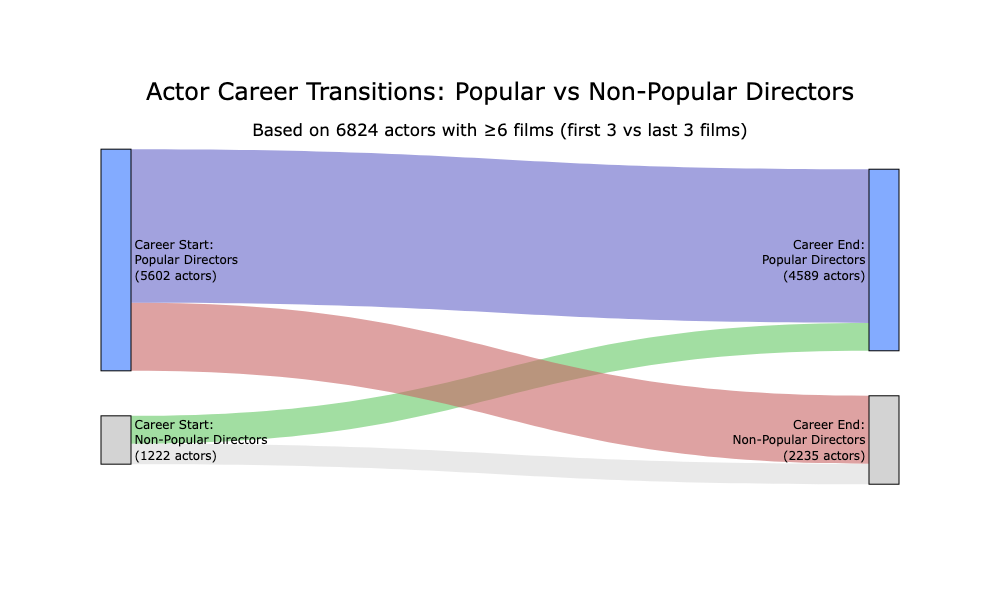
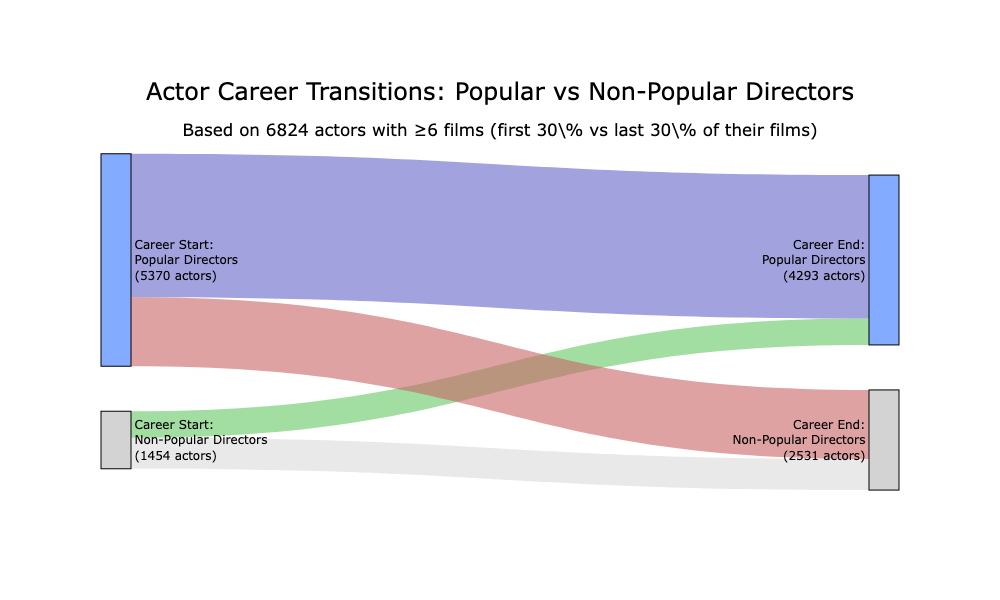
feat: update sankey, and readme

diff --git a/Director_Director_Graph/director_graph_functions.py b/Director_Director_Graph/director_graph_functions.py
@@ -784,12 +784,14 @@ def get_actors_to_popular_directors(actor_directors_dict, popular_directors):
 
 
 
-def get_career_classification(directors_list, popular_directors, n_films=3):
+def get_career_classification(directors_list, popular_directors, pct=0.30):
     if len(directors_list) == 0:
         return None, None
 
-    first_films = directors_list[:min(n_films, len(directors_list))]
-    last_films = directors_list[-min(n_films, len(directors_list)):]
+    n_films = max(1, int(len(directors_list) * pct))
+
+    first_films = directors_list[:n_films]
+    last_films = directors_list[-n_films:]
 
     # Count popular directors in first and last films
     first_popular = sum(1 for d in first_films if d['director'] in popular_directors)
@@ -805,7 +807,7 @@ def get_career_classification(directors_list, popular_directors, n_films=3):
 def calculate_actor_transitions(actor_directors_dict, popular_directors, transitions, actor_min_films):
     for actor, directors_list in actor_directors_dict.items():
         if len(directors_list) >= actor_min_films:
-            start_class, end_class = get_career_classification(directors_list, popular_directors, n_films=3)
+            start_class, end_class = get_career_classification(directors_list, popular_directors, pct=0.3)
 
             if start_class and end_class:
                 transitions[(start_class, end_class)] += 1
@@ -888,7 +890,7 @@ def visualize_actor_transitions(transitions, total_actors, actor_min_films):
     fig.update_layout(
         title={
             'text': f"Actor Career Transitions: Popular vs Non-Popular Directors<br>" +
-                    f"<sub>Based on {total_actors} actors with ≥{actor_min_films} films (first 3 vs last 3 films)</sub>",
+                    f"<sub>Based on {total_actors} actors with ≥{actor_min_films} films (first 30\% vs last 30\% of their films)</sub>",
             'x': 0.5,
             'xanchor': 'center',
             'font': {'size': 18, 'color': 'black'}
@@ -906,7 +908,7 @@ def visualize_actor_transitions(transitions, total_actors, actor_min_films):
     fig.update_layout(
         title={
             'text': f"Actor Career Transitions: Popular vs Non-Popular Directors<br>" +
-                    f"<sub>Based on {total_actors} actors with ≥{actor_min_films} films (first 3 vs last 3 films)</sub>",
+                    f"<sub>Based on {total_actors} actors with ≥{actor_min_films} films (first 30\% vs last 30\% of their films)</sub>",
             'x': 0.5,
             'xanchor': 'center',
             'font': {'size': 24, 'color': 'black'}

diff --git a/README.md b/README.md
@@ -35,4 +35,12 @@ This work is in the Director_Director_Graph folder. The Director_Director_Graph.
 - **Memory-Based Career Model**: Actors' past collaborations strongly predict future opportunities:
   - High-popularity actors are significantly more likely to continue working with high-popularity directors, but low popularity actors can work with high popularity directors too, we could not identify a lock-in-effect
 
+### Conclusion:
+- In the artist–director graph, we identified 30 communities, but we found no correlation between the community structure and any observable features such as genre, time range, production company, or the sentiment of the movies. This may be due to unobserved factors, such as the packaging phenomena from talent agencies, for which no data were available.
+
+- We also found no correlation between actors’ popularity and the sentiment of the movies in which they appeared.
+
+- Furthermore, an actor’s first three movies do not reliably predict the popularity of their last three movies.
+
+- Finally, we demonstrated that our memory term, based on the popularity of directors with whom an actor has previously worked, is a strong indicator of whether an actor will transition to a popular director. Actors with high memory terms are nearly 3.55 times more likely than those with low memory terms to collaborate with high-popularity directors.
 
